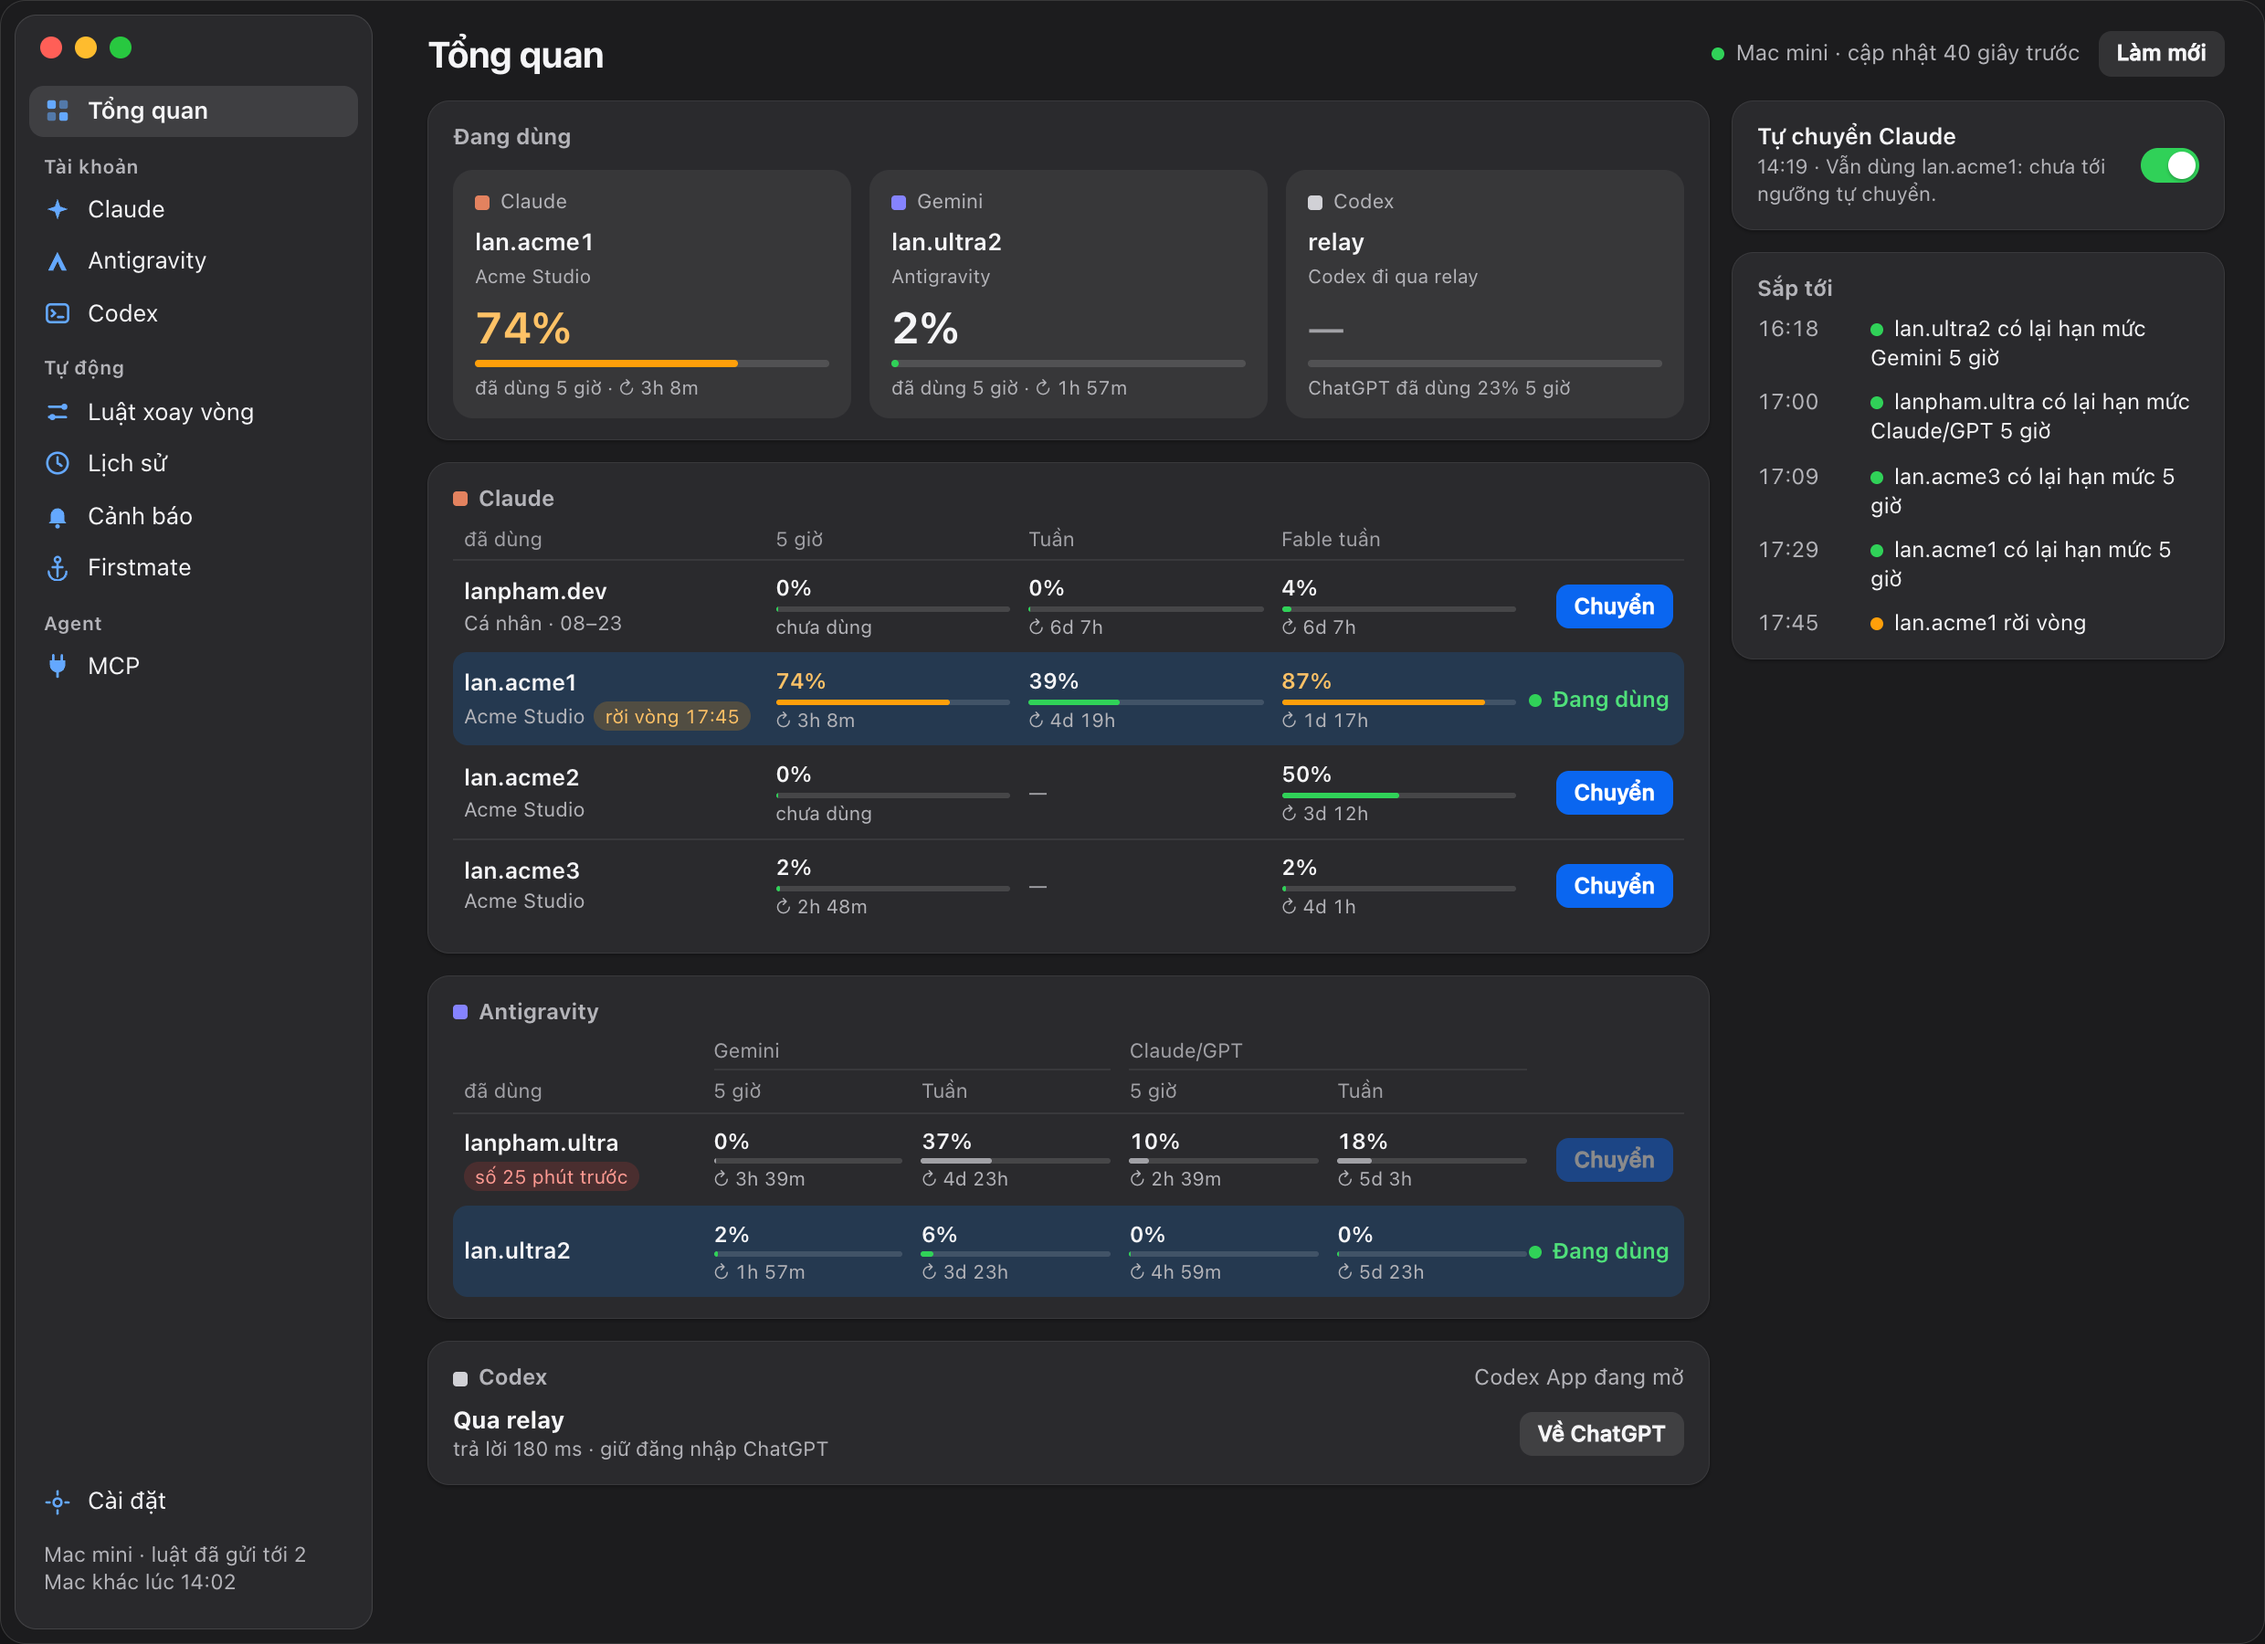
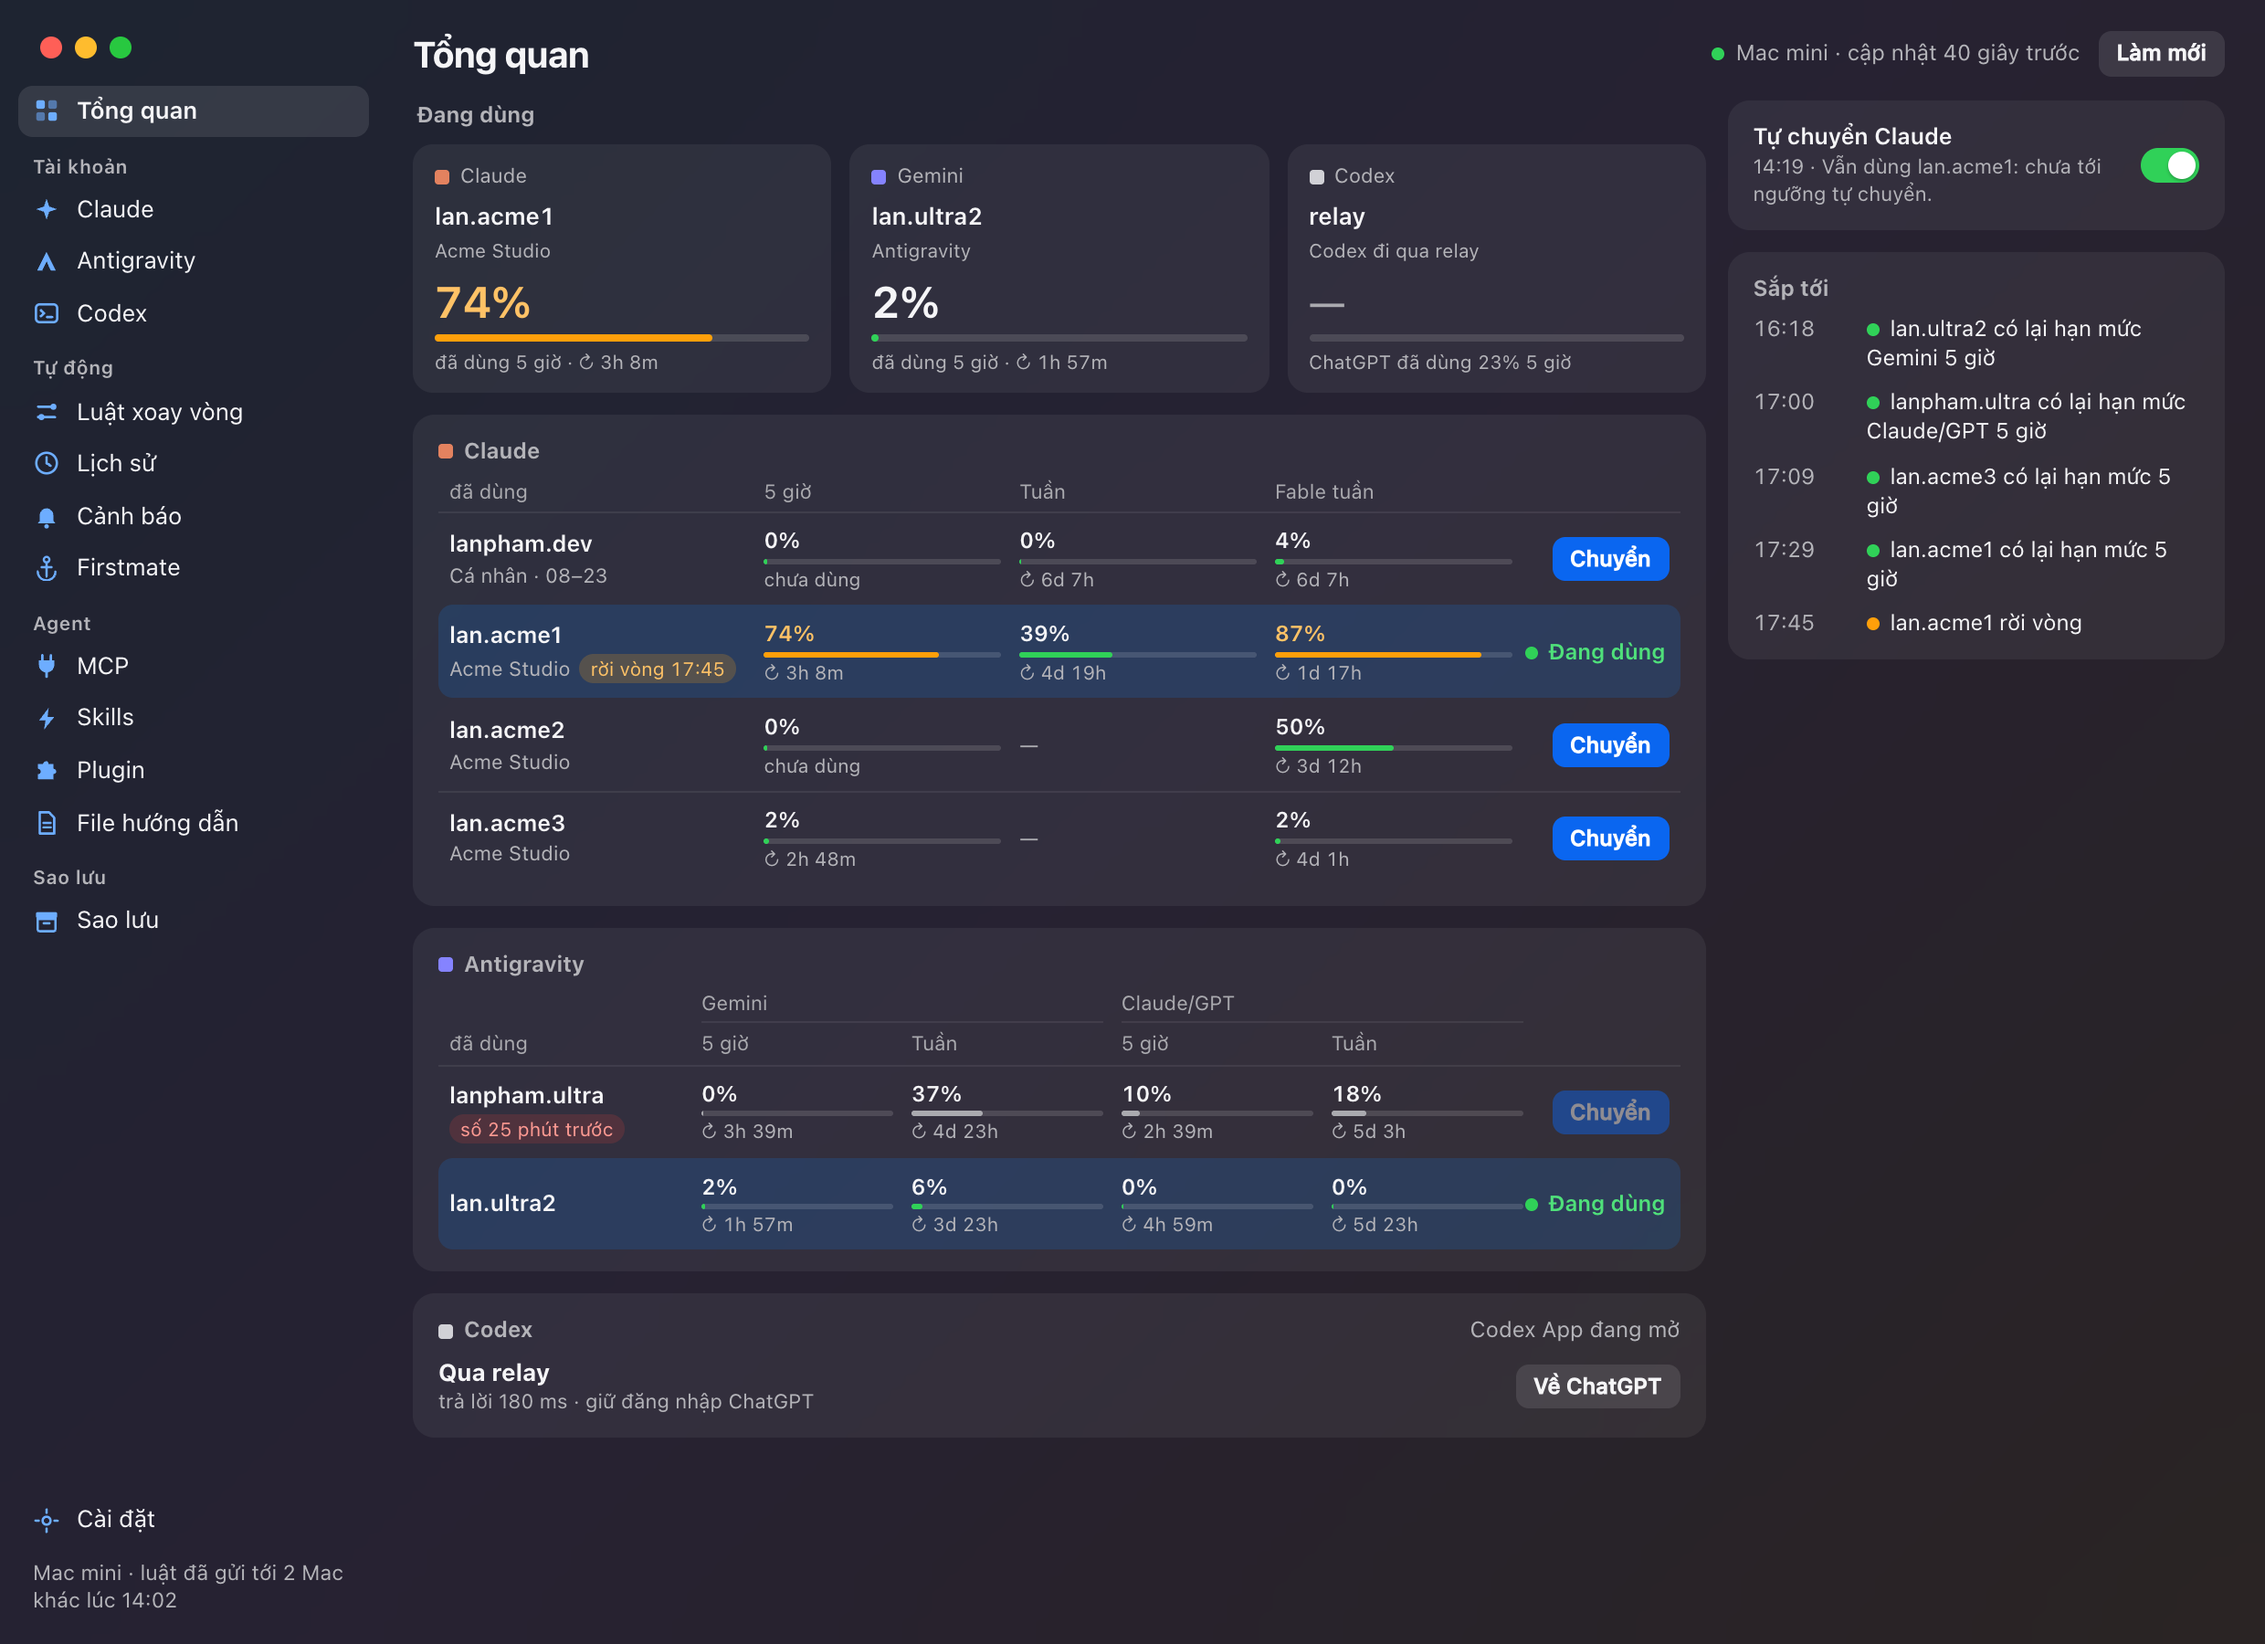
feat: the main window is one sheet of glass, like the popover
The main window is transparent and macOS draws the popover's material
behind all of it (Effect::Popover, following the window's active state);
the page lays the popover's glass tint on top, so the window and the
popover read as one family.

- The sidebar has no panel of its own: it sits on the glass, flush with
  the window's edges, the traffic lights where macOS draws them.
- Every group is a frosted panel like the popover's tiles (--fill, no
  border, no shadow), and never a panel inside a panel: Đang dùng's tiles
  and Cảnh báo's recent alerts stand on the glass, Codex's session tiles
  drop their own fill.
- Text on glass: --ink3 and --accent-ink are a step stronger on the glass
  of the main window and the popover, so they keep 4.5:1 on the glass,
  the frosted panels and the selected rows and tiles, light and dark.
- Reduce transparency: macOS makes the material solid, and so does the
  tint (--glass-solid).
- Browser preview: the window stands on the desktop and blurs it, the way
  the material does in the app. README screenshots updated.

React components, data and behaviour are unchanged.

diff --git a/src/styles/app.css b/src/styles/app.css
@@ -40,13 +40,99 @@ body.popover-window {
    macOS draws the traffic lights in the sidebar's top corner, where the
    prototype draws them, and the page leaves that corner empty. */
 body.main-window {
-  background: var(--winbg);
+  background: transparent;
   overflow: hidden;
 }
 .qs.app-window,
 .qs.app-window .win-o {
   width: 100%;
   height: 100%;
+}
+
+/* One sheet of glass, like the popover (10/2026). The window is transparent
+   and macOS draws the popover's material behind all of it (windows.rs); the
+   page lays the popover's glass tint on top. macOS draws the corners, the
+   border and the shadow. */
+.qs.app-window .win-o {
+  background: var(--glass);
+  border-radius: 0;
+  box-shadow: none;
+}
+/* The sidebar has no panel of its own: it sits on the glass, flush with the
+   window's edges. The lights' slot stays where macOS draws them. */
+.qs.app-window .side {
+  margin: 0;
+  border-radius: 0;
+  padding: 20px 10px 10px;
+  background: transparent;
+  backdrop-filter: none;
+  -webkit-backdrop-filter: none;
+  box-shadow: none;
+}
+.qs.app-window .side .lights {
+  padding: 0 12px 14px;
+}
+.qs.app-window .main {
+  padding-left: 14px;
+}
+/* Every group is a frosted panel like the popover's tiles: no border, no
+   shadow, and never a panel inside a panel. A group of cards (Đang dùng's
+   tiles, Cảnh báo's recent alerts) drops its own panel so the cards stand on
+   the glass, and number tiles inside a panel (Codex's sessions) drop theirs. */
+.qs.app-window .card,
+.qs.app-window .acard {
+  background: var(--fill);
+  box-shadow: none;
+}
+.qs.app-window .card.nowc,
+.qs.app-window .card:has(> .stack > .acard) {
+  background: transparent;
+  padding: 0;
+}
+.qs.app-window .card.nowc h4,
+.qs.app-window .card:has(> .stack > .acard) > h4 {
+  margin: 0 2px 8px;
+}
+.qs.app-window .card .pool {
+  background: transparent;
+  padding: 2px 0 0;
+}
+/* Reduce transparency: macOS makes the material solid, and so does the tint. */
+.qs.app-window[data-material="solid"] .win-o {
+  background: var(--glass-solid);
+}
+@media (prefers-reduced-transparency: reduce) {
+  .qs.app-window .win-o {
+    background: var(--glass-solid);
+  }
+}
+
+/* Text on glass. tokens.css promises 4.5:1 for --ink3 and --accent-ink on
+   solid surfaces; on the glass of the popover and the main window, its
+   frosted panels and the rows and tiles in use, they are a step stronger. */
+.qs.app-window[data-theme="light"],
+.qs.app-popover[data-theme="light"] {
+  --ink3: #5e5e63;
+  --accent-ink: #005cc0;
+}
+.qs.app-window[data-theme="dark"],
+.qs.app-popover[data-theme="dark"] {
+  --ink3: #aaaaaf;
+  --accent-ink: #6dadff;
+}
+@media not (prefers-color-scheme: dark) {
+  .qs.app-window[data-theme="auto"],
+  .qs.app-popover[data-theme="auto"] {
+    --ink3: #5e5e63;
+    --accent-ink: #005cc0;
+  }
+}
+@media (prefers-color-scheme: dark) {
+  .qs.app-window[data-theme="auto"],
+  .qs.app-popover[data-theme="auto"] {
+    --ink3: #aaaaaf;
+    --accent-ink: #6dadff;
+  }
 }
 .qs.app-window .lights {
   min-height: 14px;
@@ -131,7 +217,13 @@ body.preview .qs.app-popover {
 body.preview .qs.app-popover .pop {
   max-height: var(--pop-max);
 }
+/* The main window on a desktop too: the glass blurs the desktop the way
+   macOS's material does in the app. */
 body.preview.main-window {
-  background: var(--winbg);
+  background: var(--desk);
   padding: 0;
+}
+body.preview .qs.app-window .win-o {
+  backdrop-filter: blur(var(--blur-pop)) saturate(var(--sat));
+  -webkit-backdrop-filter: blur(var(--blur-pop)) saturate(var(--sat));
 }

diff --git a/src-tauri/src/windows.rs b/src-tauri/src/windows.rs
@@ -2,6 +2,7 @@
 
 use std::time::{Duration, Instant};
 
+use tauri::window::{Effect, EffectState, EffectsBuilder};
 use tauri::{
     AppHandle, Emitter, LogicalPosition, LogicalSize, Manager, TitleBarStyle, WebviewUrl,
     WebviewWindow, WebviewWindowBuilder, WindowEvent,
@@ -124,6 +125,15 @@ pub fn open_main(app: &AppHandle, tab: Tab) {
         .title_bar_style(TitleBarStyle::Overlay)
         .hidden_title(true)
         .traffic_light_position(LogicalPosition::new(TRAFFIC_LIGHTS.0, TRAFFIC_LIGHTS.1))
+        // One sheet of glass: macOS draws the popover's material behind the
+        // whole window, and the page lays the same glass tint on top.
+        .transparent(true)
+        .effects(
+            EffectsBuilder::new()
+                .effect(Effect::Popover)
+                .state(EffectState::FollowsWindowActiveState)
+                .build(),
+        )
         .center()
         .build();
     if let Ok(window) = built {

diff --git a/README.md b/README.md
@@ -132,7 +132,10 @@ the confirmation sheet first.
   `Fable tuần` or `Chặt nhất`, ticked; `Fable tuần` is greyed out unless the
   title follows Claude), `Cài đặt…` (settings), `Thoát Quota Station`
   (quit).
-- **Main window.** The same numbers as the popover, from the same read, in
+- **Main window.** One sheet of glass, like the popover: macOS draws the
+  popover's material behind the whole window, the sidebar sits on it with no
+  panel of its own, and each group is a frosted panel (solid when Reduce
+  transparency is on). The same numbers as the popover, from the same read, in
   these tabs:
   - `Tổng quan`: `Đang dùng`, a tile per service with the account in use,
     its share used large, the window and its reset, every Claude Code and Antigravity account in a table with fixed columns
